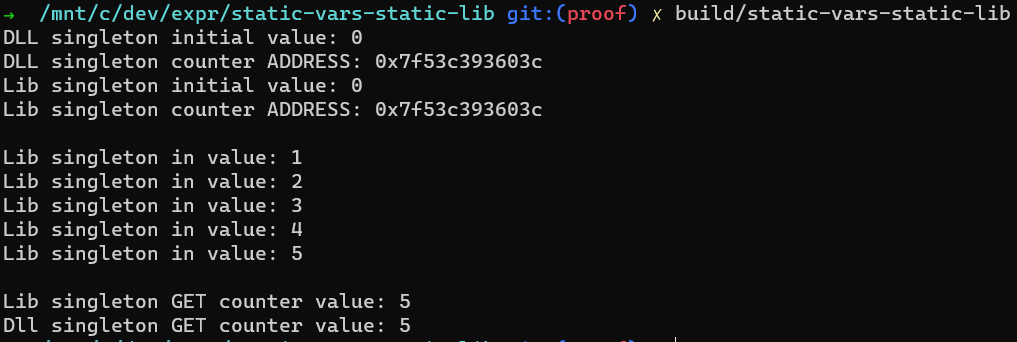
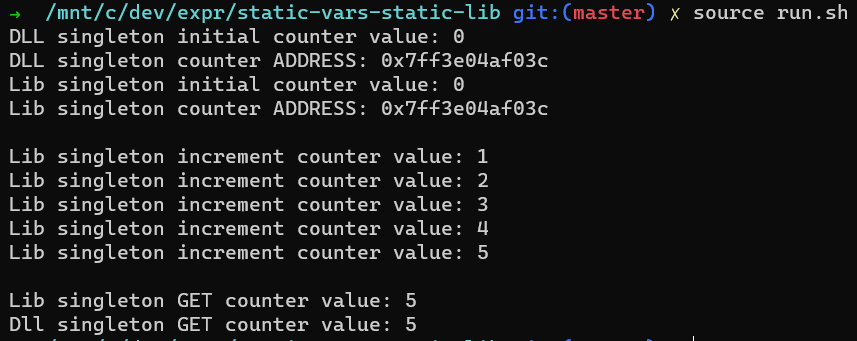
(~) fix printings, change Main.cpp --> main.cpp

diff --git a/src/main.cpp b/src/main.cpp
@@ -1,0 +1,25 @@
+#include <stdio.h>
+
+#include "singleton_dll.h"
+#include "singleton_lib.h"
+
+using namespace std;
+
+int main() {
+  printf("DLL singleton initial counter value: %d\n", dll_get_counter());
+  printf("DLL singleton counter ADDRESS: %p\n", dll_get_counter_address());
+
+  printf("Lib singleton initial counter value: %d\n", lib_get_counter());
+  printf("Lib singleton counter ADDRESS: %p\n\n", lib_get_counter_address());
+
+  printf("Lib singleton increment counter value: %d\n", lib_inc_counter());
+  printf("Lib singleton increment counter value: %d\n", lib_inc_counter());
+  printf("Lib singleton increment counter value: %d\n", lib_inc_counter());
+  printf("Lib singleton increment counter value: %d\n", lib_inc_counter());
+  printf("Lib singleton increment counter value: %d\n\n", lib_inc_counter());
+
+  printf("Lib singleton GET counter value: %d\n", lib_get_counter());
+  printf("Dll singleton GET counter value: %d\n", dll_get_counter());
+
+  return 0;
+}
